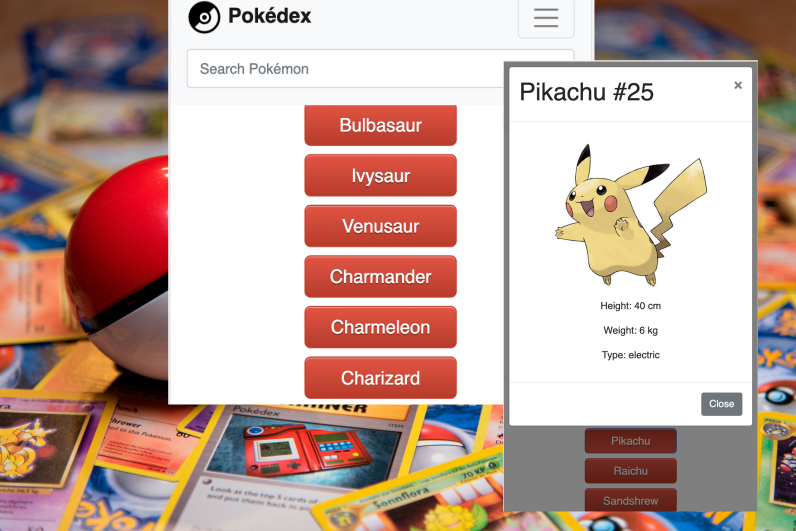
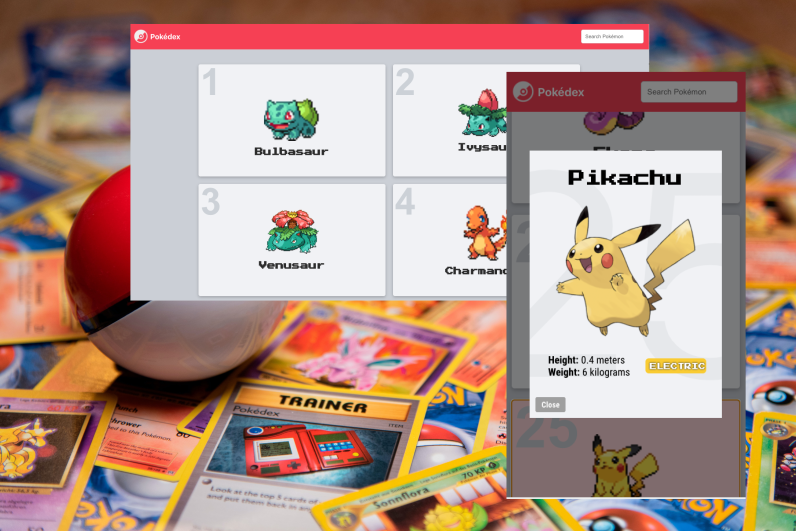
update react-pokedex

diff --git a/work.html b/work.html
@@ -52,20 +52,33 @@
             <img class="poke-screenshot" src="img/poke-screenshot-portfolio-main.png" alt="example screenshots of pokedex">
           </div>
           <p>
-            A fun frontend project going back to the roots of my childhood and the foundation of Web Dev, JavaScript. I connected to an 
-            external API which allows you to search for any Pok&eacute;mon within the database. 
+            A fun frontend project going back to the roots of my childhood and the foundation of Web Dev, JavaScript. 
+            I had originally used an IIFE with vanilla JS, but had some limitations, so I decided to remake this project 
+            taking advantage of React. 
+            <br> 
+            I connected to an external API which allows you to search for any Pok&eacute;mon 
+            within the database. I also made use of CSS to design my own modal whereas previously I used Bootstrap. I have
+            the original code linked below, take a look at my progress.
             <br>
-            <div>
-              <a href="https://github.com/aakeohane/Pokedex" id="my-button" target="_blank">the code</a>
-              <a href="https://aakeohane.github.io/Pokedex/" id="my-button" target="_blank">live version</a>
+            <div class="item-a--buttons">
+              <div class="item-a--JS-React">
+                <span>Vanilla JS:</span>
+                <a href="https://github.com/aakeohane/Pokedex" id="my-button" target="_blank">the code</a>
+                <a href="https://aakeohane.github.io/Pokedex/" id="my-button" target="_blank">live version</a>
+                <div></div>
+              </div>
+              <div class="item-a--JS-React">
+                <span>React:</span>
+                <a href="https://github.com/aakeohane/React-Pokedex" id="my-button" target="_blank">the code</a>
+                <a href="https://aakeohane.github.io/React-Pokedex/" id="my-button" target="_blank">live version</a>
+                <div></div>
+              </div>
             </div>
           </p>
             <div class="technologies-container">
-              <img src="img/html5-icon.png" alt="HTML 5 icon"/>
               <img src="img/CSS3_icon.png" alt="CSS3 icon"/>
               <img src="img/JS-icon.png" alt="JavaScript icon"/>
-              <img src="img/jquery_icon.png" alt="J Query icon"/>
-              <img src="img/Bootstrap_logo.png" alt="Bootstrap icon" title="Bootstrap"/>
+              <img src="img/react_react native_icon.png" alt="React icon" title="React"/>
             </div>
           <!-- <p>Creat Modal for better description</p> -->
       </div>

diff --git a/css/styles.css b/css/styles.css
@@ -430,6 +430,25 @@ button:focus,
   padding: 0 4px;
 }
 
+.item-a--buttons {
+  display: flex;
+  flex-direction: column;
+}
+
+.item-a--JS-React {
+  display: flex;
+  justify-content: space-around;
+  align-items: center;
+}
+
+.item-a--JS-React > span {
+  margin: 0 auto 0 0;
+}
+
+.item-a--JS-React > div {
+  margin-left: auto;
+}
+
 .grid #my-button {
   padding: 10px;
   margin: 5px;
